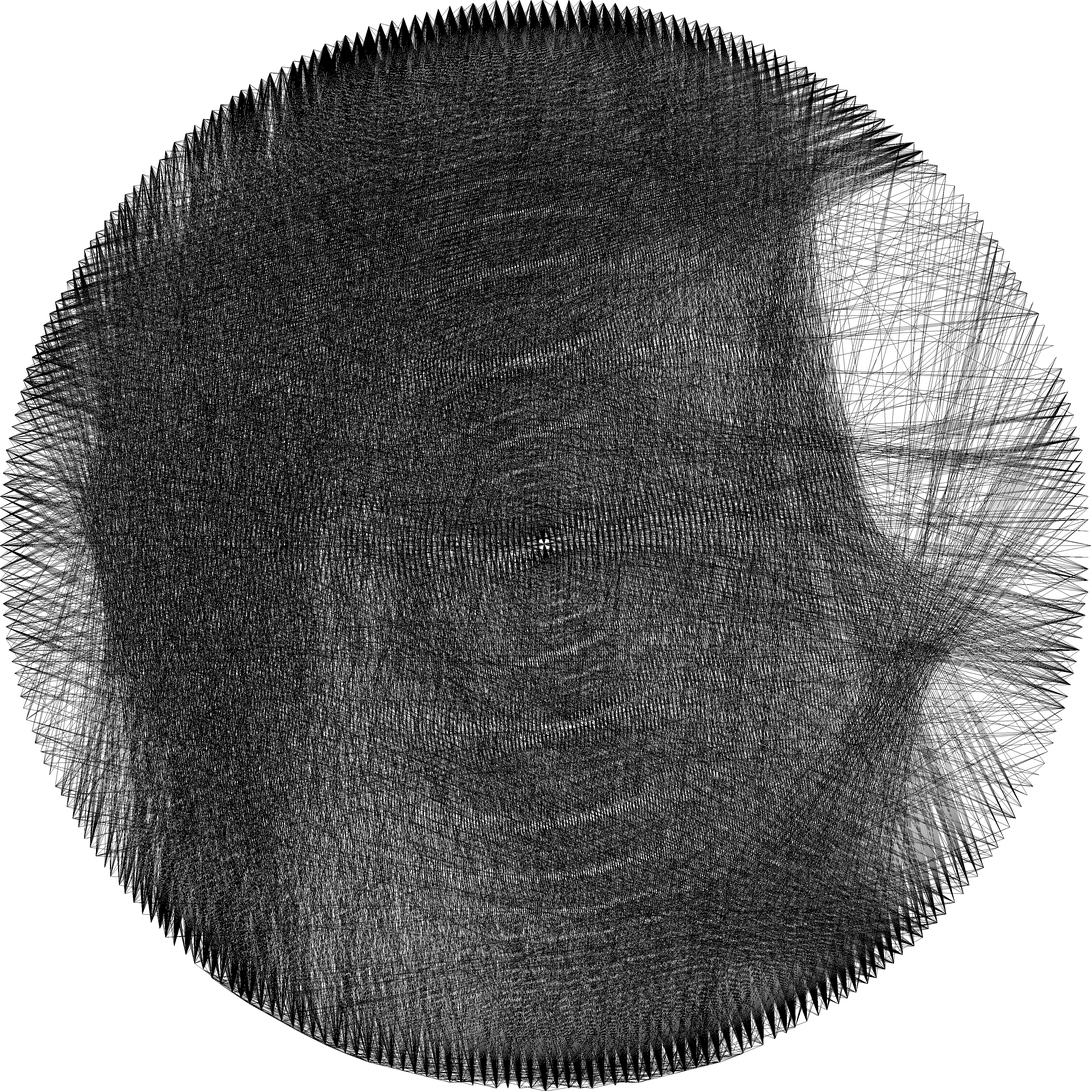
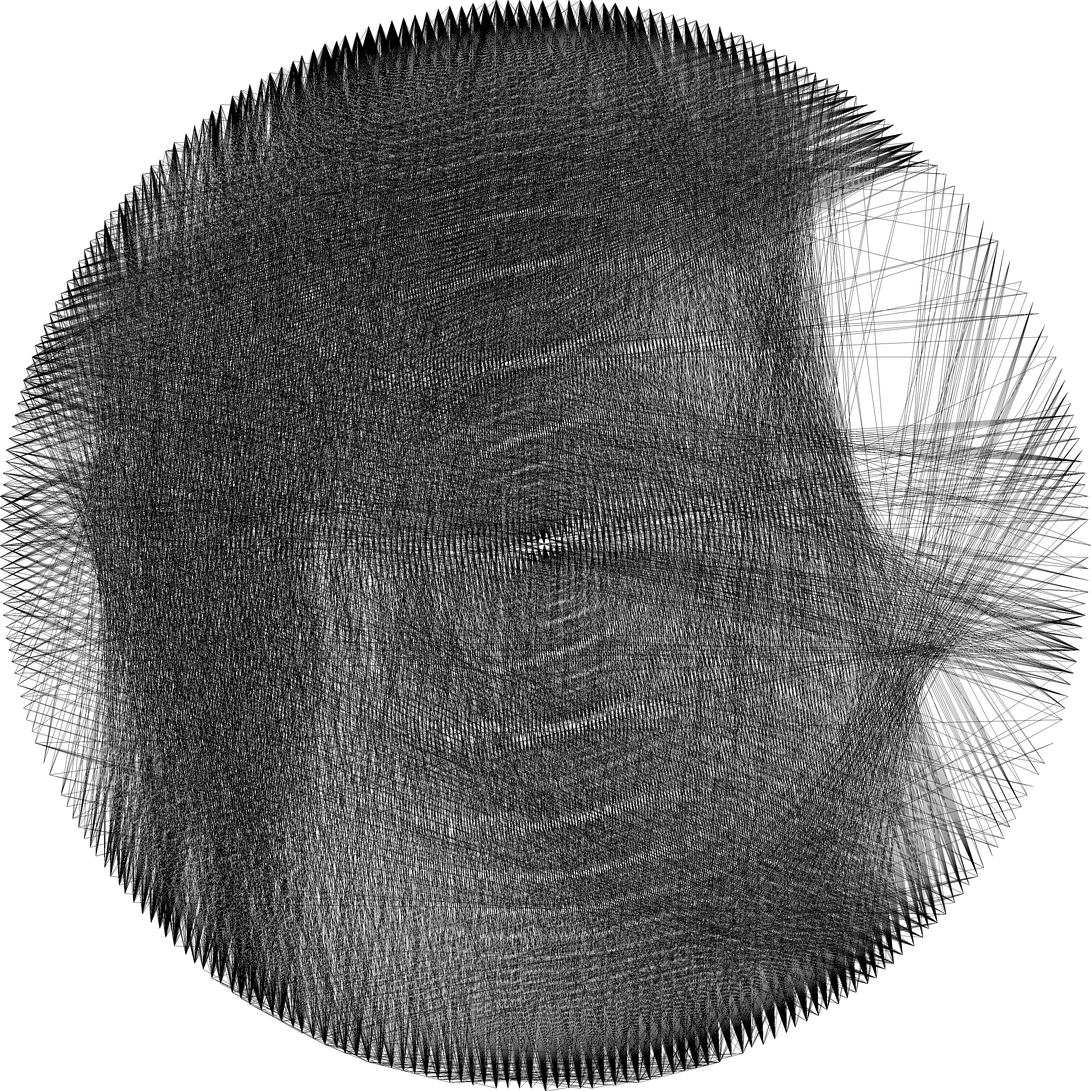
Add `rayon` for easy paralellization

Changed region(s): [[0.0, 0.0, 0.9957, 1.0]]

diff --git a/src/main.rs b/src/main.rs
@@ -3,6 +3,7 @@ use image::imageops::invert;
 use image::{GrayImage, Luma};
 use imageproc::drawing::draw_line_segment_mut;
 use nalgebra::Vector2;
+use rayon::iter::{IntoParallelIterator, ParallelIterator};
 use std::cmp::{max, min};
 use std::collections::HashSet;
 use std::f64::consts::PI;
@@ -109,27 +110,28 @@ fn main() {
         let mut last_point_index = 0; // Starting point
 
         for _ in tqdm(0..num_lines) {
-            let mut max_value = 0;
-            let mut best_pair = (0, 0);
+            let best_next_index = (0..num_points)
+                .into_par_iter()
+                .filter_map(|i| {
+                    if lines_drawn.contains(&(i, last_point_index)) {
+                        return None;
+                    }
 
-            for i in 0..num_points {
-                if lines_drawn.contains(&(i, last_point_index)) {
-                    continue;
-                }
+                    let p1 = points[i];
+                    let p2 = points[last_point_index];
 
-                let p1 = points[i];
-                let p2 = points[last_point_index];
-                let line_intensity = calculate_line_intensity(&img, p1, p2);
-                if line_intensity > max_value {
-                    max_value = line_intensity;
-                    best_pair = (i, last_point_index);
-                }
-            }
+                    Some((calculate_line_intensity(&img, p1, p2), i))
+                })
+                .max_by_key(|(intensity, _i)| *intensity)
+                .expect(&format!(
+                    "Can't find a line form point {} that isn't already taken",
+                    last_point_index
+                ))
+                .1;
 
-            last_point_index = best_pair.0;
-
-            let p1 = points[best_pair.0];
-            let p2 = points[best_pair.1];
+            let p1 = points[last_point_index];
+            let p2 = points[best_next_index];
+            last_point_index = best_next_index;
 
             if let Some(ref mut file) = file {
                 writeln!(file, "{} {} {} {}", p1.0, p1.1, p2.0, p2.1)
@@ -138,7 +140,7 @@ fn main() {
 
             subtract_line(&mut img, p1, p2, weight);
 
-            lines_drawn.insert(best_pair);
+            lines_drawn.insert((last_point_index, best_next_index));
             coordinates.push((p1, p2));
         }
     } else {
